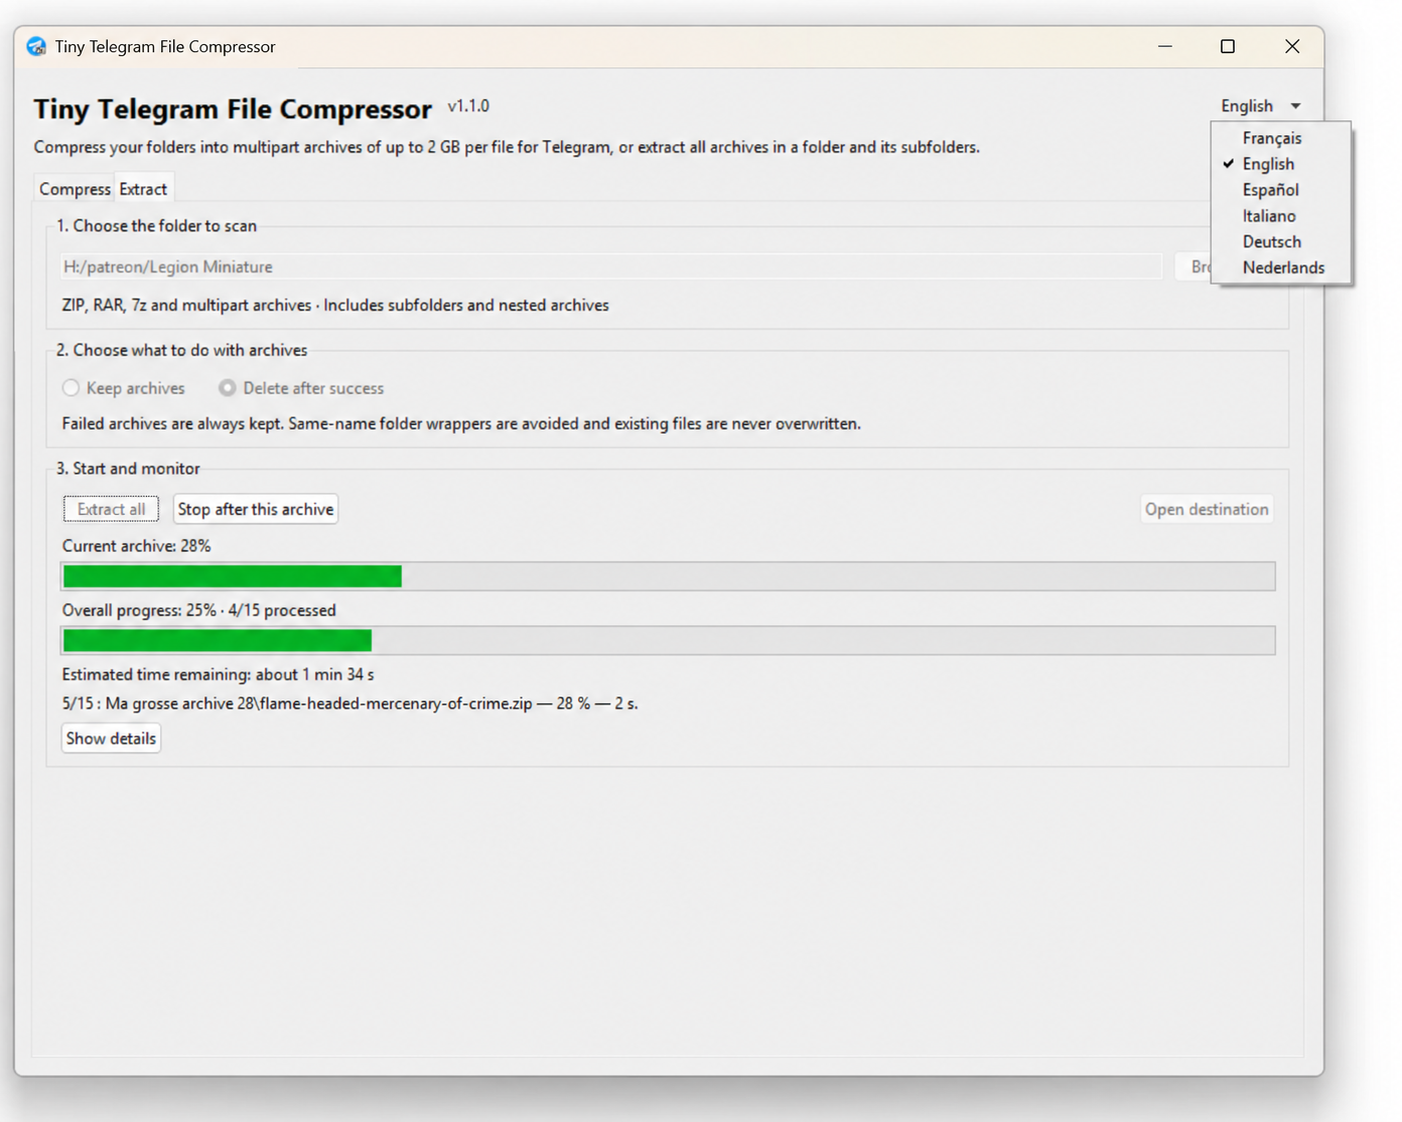
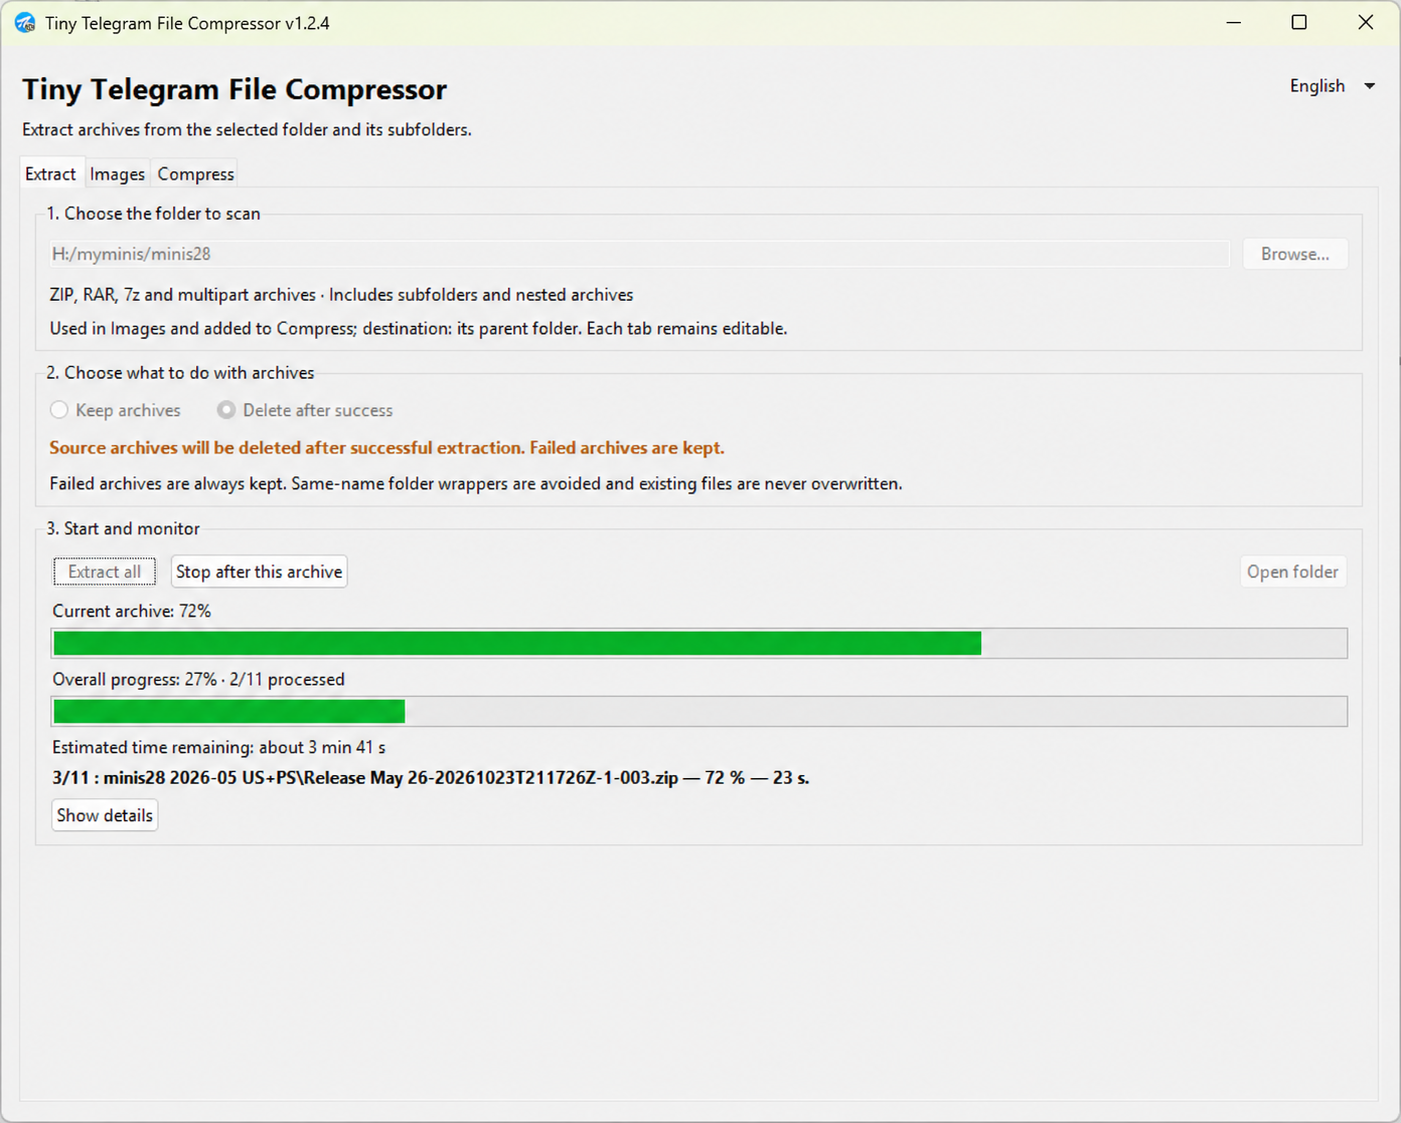
docs: update extraction screenshot for v1.2.4

Changed region(s): [[0.0, 0.0, 1.0, 1.0]]

diff --git a/README.md b/README.md
@@ -20,9 +20,9 @@ Windows releases are currently unsigned. Our application to the **SignPath Found
 
 ![Compression in progress with example folder names, progress bars, estimated remaining time and the nine-language menu.](assets/screenshot-compression.png)
 
-**Archive extraction and language selection**
+**Archive extraction**
 
-![Extraction in progress with current and overall progress, estimated remaining time and the six available interface languages.](assets/screenshot-extraction.png)
+![Archive extraction in v1.2.4 with current and overall progress, estimated remaining time and source archive deletion guidance.](assets/screenshot-extraction.png)
 
 **Image collection and AVIF conversion**
 
